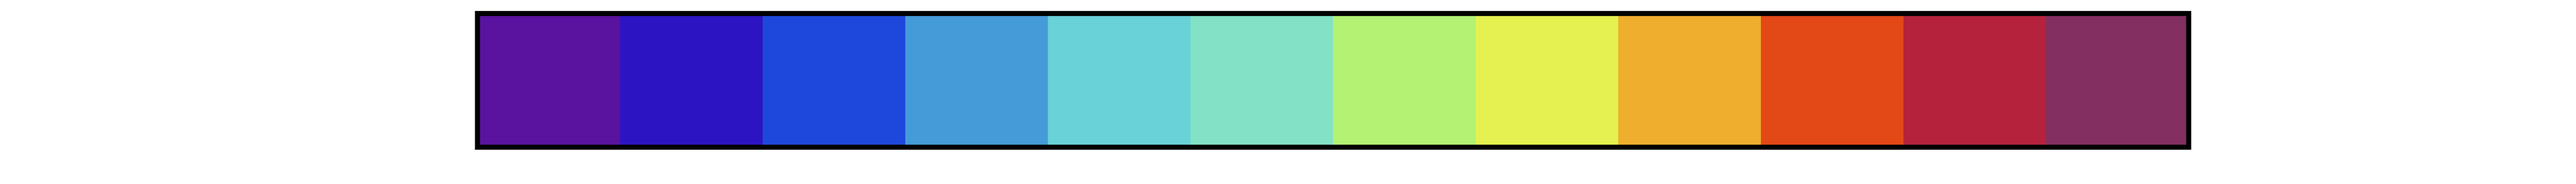
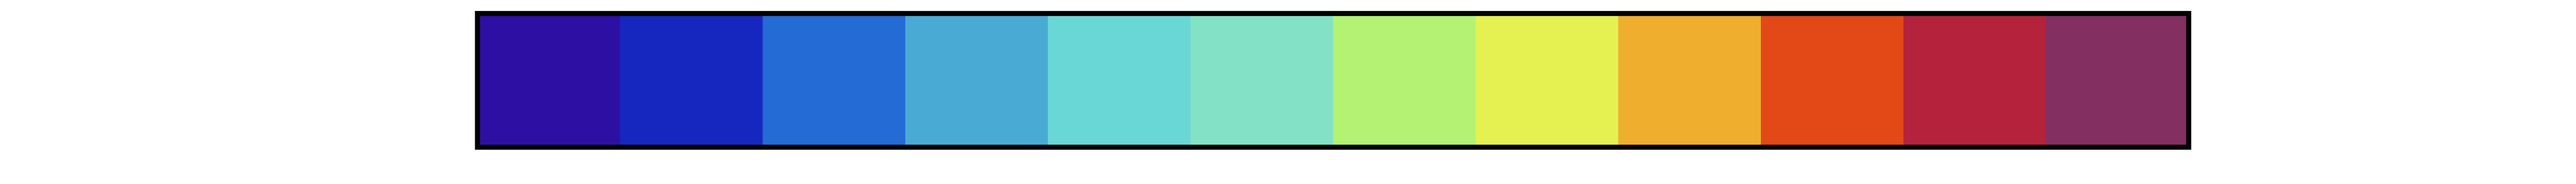
Douvle hue color maps are from color 1 to color 2, rather than reversed.

Changed region(s): [[0.2807, 0.06, 0.3743, 0.81], [0.1871, 0.06, 0.2495, 0.81]]

diff --git a/reference.m b/reference.m
@@ -3,24 +3,24 @@ figure(1); clf; hold on;
 
 for ct = 0:0.02:1
     
-    col = colormap_CD([0.501 1;0.499 0;],[0 0]+ct,[0 0],25);
+    col = colormap_CD([0.499 0; 0.501 1],[0 0]+ct,[0 0],25);
     col2 = CDF_colormap([0 1],[0 0]+ct,[1 1],50,0);
 
     colormap_name = 'reference';
     
-    subplot(1,2,1); hold on
+    subplot(1,2,2); hold on
     for i = 1:size(col,1)
         patch([0 1 1 0]+i,[0 0 1 1]+ct*50+1,col(i,:),'linest','none');
     end
 
-    subplot(1,2,2); hold on
+    subplot(1,2,1); hold on
     for i = 1:size(col,1)
         patch([0 1 1 0]+i,[0 0 1 1]+ct*50+1,col2(i,:),'linest','none');
     end
 end
 
 for i = 1:2
-    subplot(1,2,i); hold on
+    subplot(1,2,3-i); hold on
     plot([1 50+1 50+1 1 1],[1 1 51 51 1],'k-','linewi',2)
     axis([1 51 1 51])
     set(gca,'xtick',[1:10:51],'xticklabel',[0:0.2:1]);
@@ -31,9 +31,9 @@ for i = 1:2
     axis on;
     set(gca,'fontsize',18)
     if i == 1,
-        title('Color palette used in this toolbox')
+        title('colormap\_CD palette')
     else
-        title('Color palette when saturation equals to one')
+        title('HSV palette')
     end
 end
 set(gcf,'position',[1 5 18 8],'unit','inches');

diff --git a/sample.m b/sample.m
@@ -1,15 +1,15 @@
 clear;
 
-case_id = 4;
+case_id = 3;
 switch case_id,
     case 1,
-        col = colormap_CD([0.16  .89;],[1 .3],[0 0],12);
+        col = colormap_CD([0.16  0.89;],[1 0.3],[0 0],12);
         colormap_name = 'hot';
     case 2,
-        col = colormap_CD([0.25  .9;.45 .75],[.7 .35],[0 0],6);
+        col = colormap_CD([0.45 0.70; 0.25 0.9],[0.7 0.35],[0 0],6);
         colormap_name = 'jet';
     case 3,
-        col = CDF_colormap2([0.08  .95;.45 .7],[1 .35],[0 0],6);
+        col = colormap_CD([ 0.45 0.7; 0.08 0.95],[1 .35],[0 0],6);
         colormap_name = 'b2r';
     case 4,
         col = colormap_CD([.96 .16],[.3 .8],[0 0],12);
@@ -18,7 +18,7 @@ switch case_id,
         col = colormap_CD([0 1/6 1/3 2/3 5/6 1]',[0.9 .35],[0 0 0 0 0 1],5);
         colormap_name = 'detail';
     case 6,
-        col = CDF_colormap2([0.08  .95;.45 .7],[.95 .35],[0 1],8);
+        col = colormap_CD([ 0.45 0.7; 0.08  .95],[.95 .35],[1 0],8);
         col = col([1:8 10:2:end],:);
         colormap_name = 'k2r';
 end

diff --git a/README.md b/README.md
@@ -1,11 +1,13 @@
 # colormap_CD
 
-colormap_CD.m is the main function in this toolbox, which generates color palettes that are much more clearly distinguishable by human eyes compared with the standard Matlab colormaps.
+colormap_CD.m is the main function in this toolbox, which generates color palettes that are much more clearly distinguishable by human eyes compared with the standard Matlab colormaps.  
+
+I guarantee that you do not need to worry about the annoying __<span style="color:rgb(255,0,0)"> R</span><span style="color:rgb(0,210,0)">G</span><span style="color:rgb(0,0,255)">B</span>__ values, which is really counter intuitive.  Just tell the function what __colors__ you want to use and how __bright__ you want them to be!
 
 ## Quick start
 If you run:
 ```
-col = CDF_colormap2([0.08  .95;.45 .7],[1 .35],[0 0],6);
+col = colormap_CD([ 0.45 0.7; 0.08  0.95],[1 .35],[0 0],6);
 ```
 You get a nice __<span style="color:blue"> blue</span>__-to-__<span style="color:red">red </span>__ colormap:
 ![new-repository-button](demo/b2r_colorbar.png)
@@ -20,7 +22,8 @@ Another example is the widely used __jet__ colormap. Compared to the default ver
 Or if we compare with the __hot__ colormap, again colors are not distinguishable for the glaring yellow and flashing __<span style="color:red">red </span>__ (before). But __colormap_CD.m__ allows you to read clearly where each contour line locates.
 ![new-repository-button](demo/hot_compare.png)
 
-Finally, if you have to explore the detail of your data, the only way that uses colormaps coming with Matlab is __lines__, which generates a painting of Picasso >_<||| But __colormap_CD.m__ allows you to examine the details of data easily and clearly.
+Finally, if you have to explore the detail of your data, the only way that uses colormaps coming with Matlab is __lines__, which generates a painting of Picasso...
+Of course, there is no way to read any values in the left panel. But __colormap_CD.m__ allows you to examine the details of data easily and clearly.
 ![new-repository-button](demo/detail_compare.png)
 
 <p align="center">
@@ -47,7 +50,7 @@ The dimension of hue should be a __n__ by __m__, where: __n__ is number of group
 
 __When n = 1__, the colormap has one group of hues. For example:
 ```
-col = colormap_CD([0.16  0.89],[1 .3],[0],12);
+col = colormap_CD([0.16  0.89],[1 0.3],[0],12);
 ```
 ![new-repository-button](demo/hot_colorbar.png)
 In the above example, __m = 2__, so colors in the colormap change their hue linearly from yellow to magenta. Otherwise, all colors can only have one hue.
@@ -61,13 +64,13 @@ col = colormap_CD([0.96 0.16],[0.3 0.8],[0 0],12);
 
 __When n = 2__, the colormap has two groups of hues. For example, the classic blue-to-red :
 ```
-col = CDF_colormap2([0.08 0.95; 0.45 0.7],[1 0.35],[0 0],6);
+col = colormap_CD([ 0.45 0.7; 0.08 0.95],[1 .35],[0 0],6);
 ```
 ![new-repository-button](demo/b2r_colorbar.png)
 
 It can also be used to generate rainbow-like palette:
 ```
-col = colormap_CD([0.25  0.9; 0.45 0.75],[0.7 0.35],[0 0],6);
+col = colormap_CD([0.45 0.70; 0.25 0.9],[0.7 0.35],[0 0],6);
 ```
 ![new-repository-button](demo/jet_colorbar.png)
 
@@ -93,7 +96,7 @@ col = colormap_CD([0.16  0.89],[1 .3],[0],12);
 
 __Gry__: determines whether centain hues are in gray scale, valid values are {0, 1}, and the size of gry should be 1xn, where n is number of groups of hues. When __gry = 1__, corresponding segments are in gray scales. For example:
 ```
-col = CDF_colormap2([0.08  .95;.45 .7],[.95 .35],[0 1],8);
+col = colormap_CD([ 0.45 0.7; 0.08  .95],[.95 .35],[1 0],8);
 col = col([1:8 10:2:end],:);
 ```
 ![new-repository-button](demo/k2r_colorbar.png)
@@ -106,12 +109,16 @@ __Num__: number of colors in each segment.
 
 
 ## Why colormap_CD.m works better
-This is because the __colormap_CD.m__ uses a different color palette compared with a regular HSV palette that have all colors fully saturated. I deliberately lower the saturation for <span style="color:rgb(240,240,0)"> yellow </span>, <span style="color:rgb(0,255,0)"> green</span>, <span style="color:cyan"> cyan</span>, and <span style="color:magenta"> magenta</span>, because those colors are brighter to human eyes, even they have the same brightness value as red and blue. As a results, colormaps generated by colormap_CD.m has no particular glaring part and, therefore, can be stared at a longer time. Also, when compare __our palette (left)__ with a standard __HSV palette (right)__, grid boxes with brightness is than 0.5 are more distinguishable for nearly every hue.
+Two reasons make __colormap_CD.m__ works better compared to the default matlab colormaps:
 
-![new-repository-button](demo/reference.png)
+1. __colormap_CD.m__ allows users to take dark colors, brightness < 0.5, where as conventional colormaps are confined in the top half plane of the palette.  Because human eyes are more sensitive to changes in the brightness than hue, this increasing contrast makes __colormap_CD.m__ good at showing values that are away from zero.
 
+2. __colormap_CD.m__ uses a different color palette compared with a regular HSV palette that have all colors fully saturated. Show both palette side by side, grid boxes in __colormap_CD.m__ palette (right) more distinguishable than __HSV__ palette (left) for nearly every hue, especially when brightness is greater than 0.5.
+
+![new-repository-button](demo/reference3.png)
+  * This is achieved by decreasing the saturation for <span style="color:rgb(240,240,0)"> yellow </span>, <span style="color:rgb(0,255,0)"> green</span>, <span style="color:cyan"> cyan</span>, and <span style="color:magenta"> magenta</span>.  These colors are brighter to human eyes, even when they have the same brightness value as red or blue. As a result, the four colors glare when fully saturated and become less distinguishable.  In addition, when the saturation of these colors are decreased, the entire palette of __colormap_CD.m__ is more harmonic without particular part glaring. The benefit is that colormaps generated by __colormap_CD.m__ can be stared at a longer time.
 
 Maintained by __Duo Chan__,
 Harvard University.
 
-Last update: 2018-08-06
+Last update: 2018-08-10
